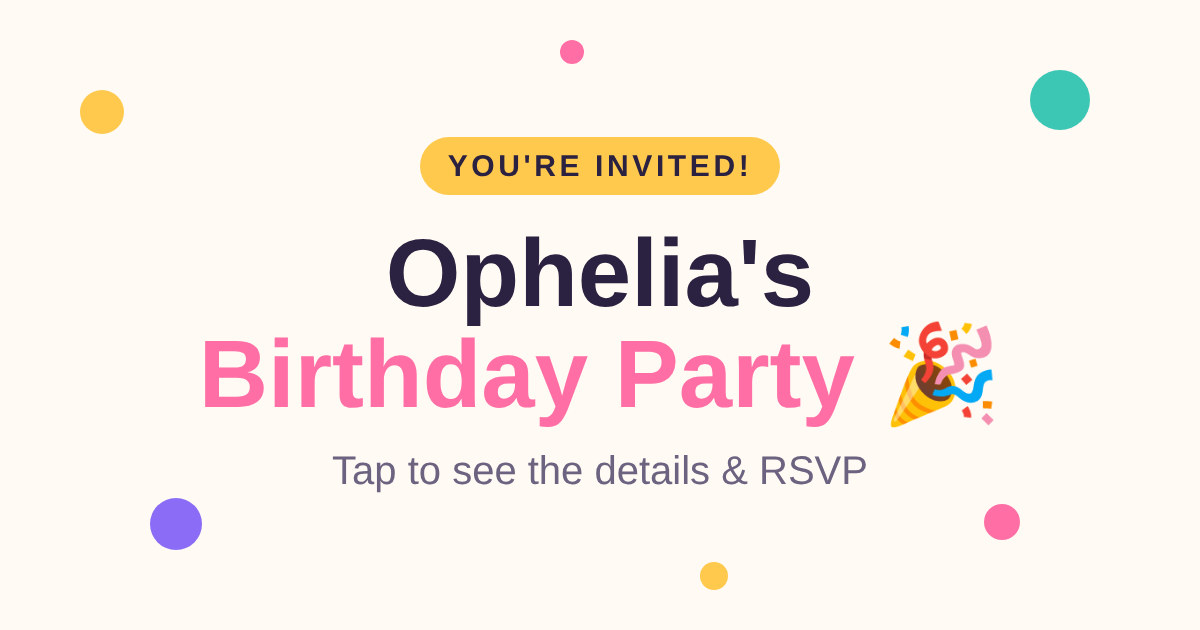
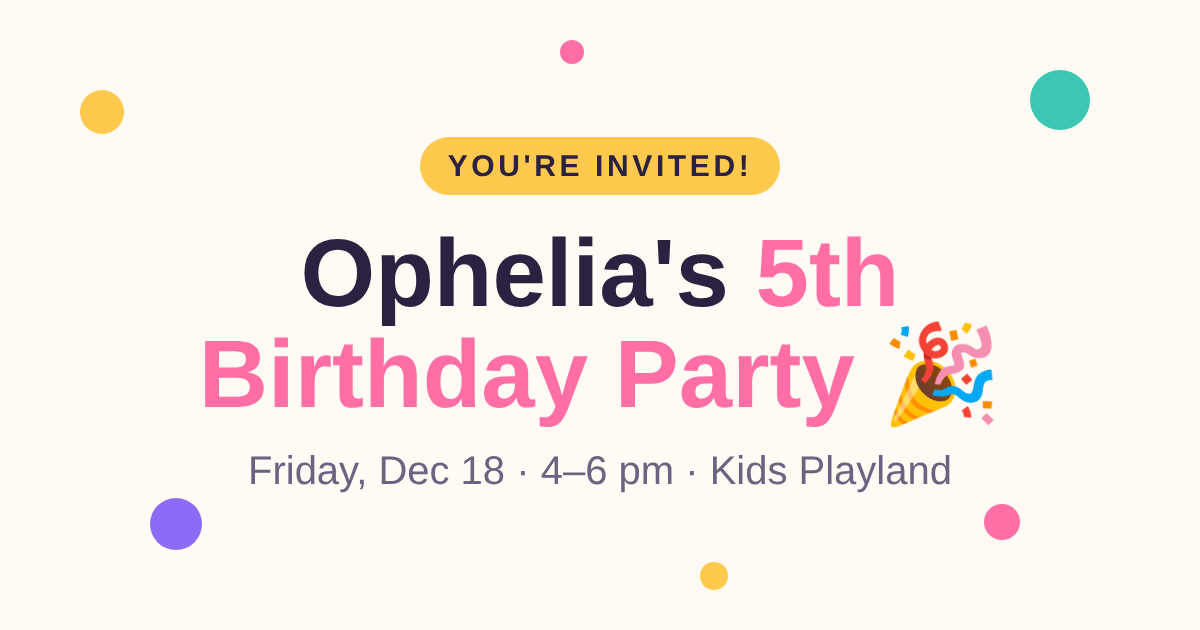
Fill in party details, add calendar invite and updated link preview
Claude-Session: https://claude.ai/code/session_01XhWjtmV1RWyZqdGRQCufUg

Changed region(s): [[0.2467, 0.3619, 0.7708, 0.5127], [0.185, 0.7238, 0.8017, 0.7841]]

diff --git a/public/birthday/index.html b/public/birthday/index.html
@@ -4,15 +4,15 @@
   <meta charset="utf-8">
   <meta name="viewport" content="width=device-width, initial-scale=1">
   <meta name="robots" content="noindex, nofollow">
-  <title>You're invited to Ophelia's birthday party!</title>
+  <title>Ophelia's 5th birthday party</title>
   <meta name="description" content="Join us to celebrate! Tap to see the details and RSVP.">
   <meta name="theme-color" content="#ff6fa5">
 
   <!-- Link preview for texts and emails -->
   <meta property="og:type" content="website">
   <meta property="og:url" content="https://opheliadex.com/birthday/">
-  <meta property="og:title" content="You're invited to Ophelia's birthday party! 🎉">
-  <meta property="og:description" content="Tap to see the details and RSVP.">
+  <meta property="og:title" content="You're invited to Ophelia's 5th birthday party! 🎉">
+  <meta property="og:description" content="Friday, December 18 · 4–6 pm · Kids Playland. Tap to RSVP.">
   <meta property="og:image" content="https://opheliadex.com/images/invite-preview.png">
   <meta property="og:image:width" content="1200">
   <meta property="og:image:height" content="630">
@@ -29,24 +29,25 @@
     <section class="invite-hero confetti">
       <div class="wrap narrow">
         <div class="eyebrow">You're invited!</div>
-        <!-- PARTY DETAILS: update the age, date, time, place and RSVP deadline below -->
-        <h1>Ophelia is turning <span class="age">?</span></h1>
-        <p class="lead" style="color:var(--muted);font-size:1.2rem">Come celebrate with cake, games and lots of fun. We'd love to see you there!</p>
+        <h1>Ophelia is turning <span class="age">5</span></h1>
+        <p class="lead" style="color:var(--muted);font-size:1.2rem">Ophelia turns 5 on December 28th, and we're celebrating a little early with play, cake and lots of fun. We'd love to see you there!</p>
 
         <div class="details" style="text-align:left">
           <div class="detail">
             <div class="label">When</div>
-            <div class="value">[Day, Month Date]</div>
-            <div class="sub">[Start time] – [End time]</div>
+            <div class="value">Friday, December 18</div>
+            <div class="sub">4:00 – 6:00 pm<br>
+              <a href="/birthday/party.ics">Add to calendar →</a></div>
           </div>
           <div class="detail">
             <div class="label">Where</div>
-            <div class="value">[Venue name]</div>
-            <div class="sub">[Street address, City]<br>
-              <a href="https://maps.google.com/?q=" target="_blank" rel="noopener">Open in Maps →</a></div>
+            <div class="value">Kids Playland</div>
           </div>
         </div>
-        <p class="note" style="text-align:left">🎁 [Optional note: theme, what to bring, dress code, or "no gifts please"]</p>
+        <div class="note" style="text-align:left">
+          <p style="margin:0 0 .5em">👨👩👧 <strong>Parents and grandparents are welcome!</strong> There will be food and drinks for the grown-ups too.</p>
+          <p style="margin:0">🧦 <strong>Please bring socks</strong>. They're required in the play area.</p>
+        </div>
       </div>
     </section>
 
@@ -58,7 +59,7 @@
           <p class="hp"><label>Don't fill this in: <input name="bot-field" tabindex="-1" autocomplete="off"></label></p>
 
           <h2>RSVP</h2>
-          <p class="deadline">Please let us know by <strong>[RSVP date]</strong>.</p>
+          <p class="deadline">Let us know if you can make it, so we have enough food and treats for everyone.</p>
 
           <fieldset class="field">
             <legend>Can you make it?</legend>
@@ -97,7 +98,7 @@
                 <input id="kids" type="number" name="kids" min="0" max="10" value="1" inputmode="numeric">
               </div>
               <div class="field">
-                <label for="adults">Number of adults</label>
+                <label for="adults">Number of adults <span class="hint">(parents &amp; grandparents)</span></label>
                 <input id="adults" type="number" name="adults" min="0" max="10" value="1" inputmode="numeric">
               </div>
             </div>
